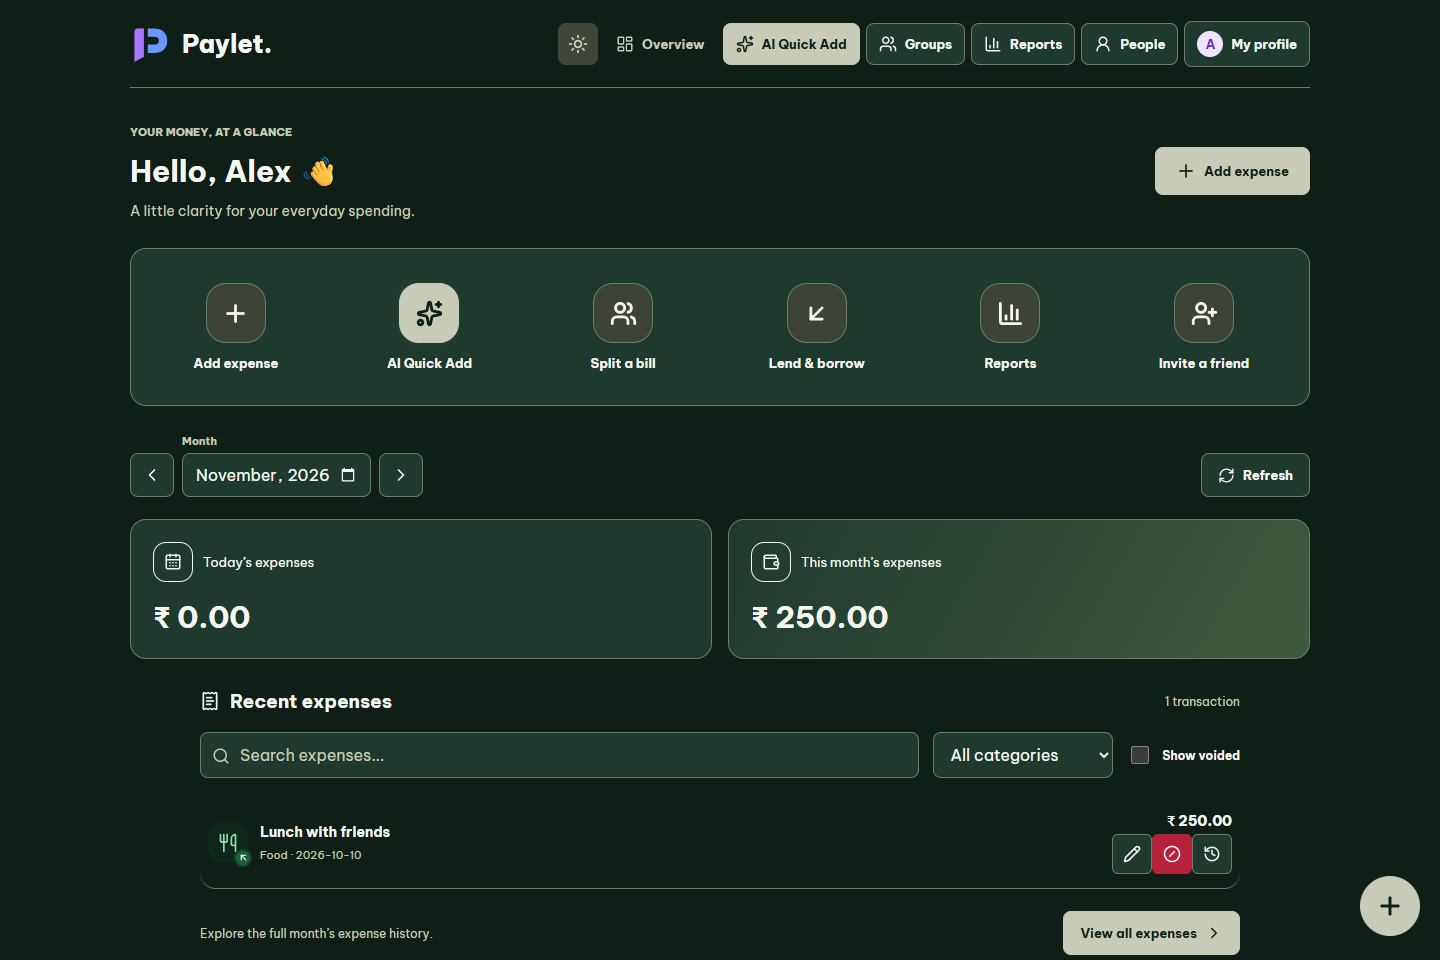
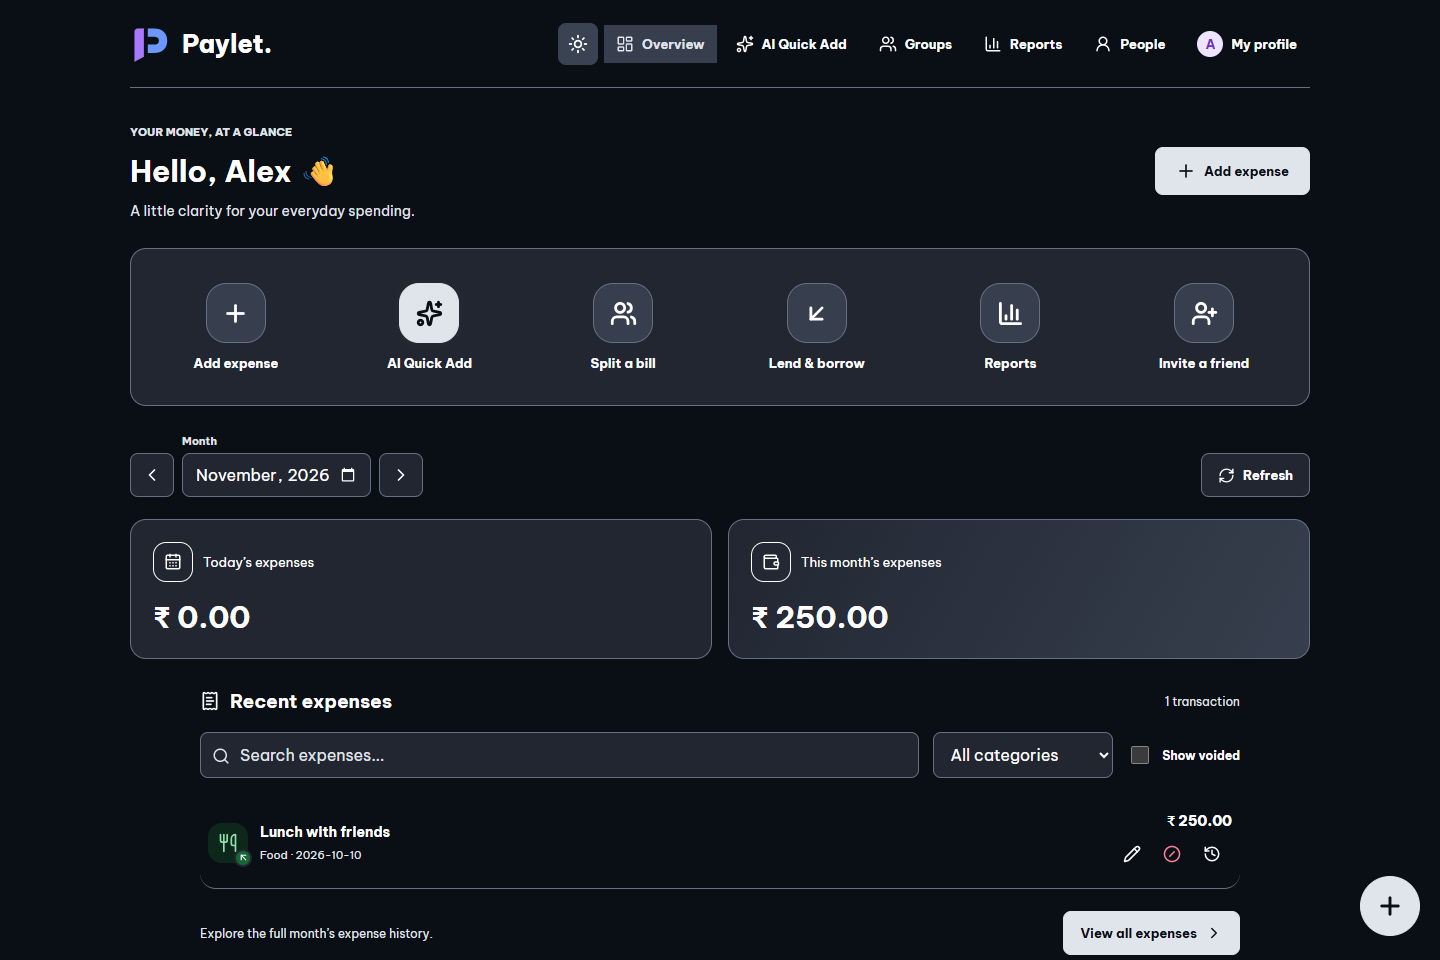
Apply charcoal and lavender themes and simplify dashboard controls

diff --git a/frontend/tests/ui.spec.ts b/frontend/tests/ui.spec.ts
@@ -242,8 +242,8 @@ test("daily and monthly amount cards separate currencies, exclude voids and use 
   for(const theme of ['light','dark']) {
     if(await page.locator('html').getAttribute('data-theme')!==theme) await page.getByRole('button',{name:`Switch to ${theme} mode`}).click();
     for(const card of [today,monthly]) {
-      await expect(card.locator('.expense-total').first()).toHaveCSS('color',card===today && theme==='light'?'rgb(15, 31, 23)':'rgb(245, 246, 240)');
-      expect(await card.evaluate(el=>getComputedStyle(el).backgroundImage)).toBe(card === today ? 'none' : 'linear-gradient(120deg, rgb(30, 58, 46), rgb(62, 90, 63))');
+      await expect(card.locator('.expense-total').first()).toHaveCSS('color',card===today && theme==='light'?'rgb(33, 32, 58)':'rgb(255, 255, 255)');
+      expect(await card.evaluate(el=>getComputedStyle(el).backgroundImage)).toBe(card === today ? 'none' : theme === 'dark' ? 'linear-gradient(120deg, rgb(33, 38, 49), rgb(55, 63, 78))' : 'linear-gradient(120deg, rgb(91, 33, 182), rgb(109, 40, 217))');
     }
     await page.setViewportSize({width:320,height:800});
     expect(await page.evaluate(()=>document.documentElement.scrollWidth<=innerWidth)).toBe(true);
@@ -670,7 +670,7 @@ test("theme preference persists and compact expense rows retain their actions", 
   await page.screenshot({ path: "test-results/dashboard-dark.png", fullPage: true });
   await page.getByRole("button", { name: "Add expense", exact: true }).first().click();
   await expect(page.getByRole("dialog")).toBeVisible();
-  expect(await page.getByRole("dialog").evaluate((element) => getComputedStyle(element).backgroundColor)).toBe("rgb(30, 58, 46)");
+  expect(await page.getByRole("dialog").evaluate((element) => getComputedStyle(element).backgroundColor)).toBe("rgb(33, 38, 49)");
   await page.keyboard.press("Escape");
   await page.getByRole("button", { name: "Switch to light mode" }).click();
   await page.screenshot({ path: "test-results/dashboard-purple-light.png", fullPage: true });
@@ -1064,19 +1064,19 @@ test("capture current Paylet dashboard for landing product preview", async ({ pa
   await page.getByRole("button", { name: "Switch to dark mode" }).click();
   await page.screenshot({ path: "test-results/paylet-preview-dark.png" });
 });
-test("Forest Ledger dashboard and other screens retain distinct themes", async ({ page }) => {
+test("charcoal and lavender dashboard and other screens retain distinct themes", async ({ page }) => {
   await mockApi(page);
   await page.goto("/?view=dashboard");
   if (await page.locator("html").getAttribute("data-theme") !== "dark") await page.getByRole("button", { name: "Switch to dark mode" }).click();
-  expect(await page.locator("body").evaluate((element) => getComputedStyle(element).backgroundColor)).toBe("rgb(15, 31, 23)");
-  await expect(page.locator(".today-expense-card")).toHaveCSS("background-color", "rgb(30, 58, 46)");
+  expect(await page.locator("body").evaluate((element) => getComputedStyle(element).backgroundColor)).toBe("rgb(10, 14, 21)");
+  await expect(page.locator(".today-expense-card")).toHaveCSS("background-color", "rgb(33, 38, 49)");
   await page.getByRole("button", { name: "AI Quick Add", exact: true }).first().click();
   expect(await page.locator(".pqa").evaluate((element) => getComputedStyle(element).backgroundColor)).toBe("rgb(0, 0, 0)");
   await page.goto("/");
-  expect(await page.locator(".landing-page").evaluate((element) => getComputedStyle(element).backgroundColor)).toBe("rgb(15, 31, 23)");
+  expect(await page.locator(".landing-page").evaluate((element) => getComputedStyle(element).backgroundColor)).toBe("rgb(10, 14, 21)");
   await page.screenshot({ path: "test-results/landing-deep-black.png" });
   await page.getByRole("button", { name: "Switch to light mode" }).click();
-  expect(await page.locator("body").evaluate((element) => getComputedStyle(element).backgroundColor)).toBe("rgb(245, 246, 240)");
+  expect(await page.locator("body").evaluate((element) => getComputedStyle(element).backgroundColor)).toBe("rgb(250, 249, 255)");
 });
 test("clean hero keeps the verified community count and respects reduced motion", async ({ page }) => {
   await mockApi(page, false);
@@ -1102,12 +1102,12 @@ test("hero and dashboard preview switch together with the selected theme", async
   if (await page.locator("html").getAttribute("data-theme") === "dark") await page.getByRole("button", { name: "Switch to light mode" }).click();
   const hero = page.locator(".landing-interactive-hero");
   const image = page.locator(".landing-product");
-  expect(await hero.evaluate((element) => getComputedStyle(element).backgroundColor)).toBe("rgb(245, 246, 240)");
+  expect(await hero.evaluate((element) => getComputedStyle(element).backgroundColor)).toBe("rgb(250, 249, 255)");
   await expect(page.locator(".hero-split")).toHaveCount(0);
   await expect(image).toHaveAttribute("src", "/paylet-preview.png");
   await page.screenshot({ path: "test-results/hero-theme-light.png" });
   await page.getByRole("button", { name: "Switch to dark mode" }).click();
-  expect(await hero.evaluate((element) => getComputedStyle(element).backgroundColor)).toBe("rgb(15, 31, 23)");
+  expect(await hero.evaluate((element) => getComputedStyle(element).backgroundColor)).toBe("rgb(10, 14, 21)");
   await expect(image).toHaveAttribute("src", "/paylet-preview-dark.png");
   await image.scrollIntoViewIfNeeded();
   await expect.poll(() => image.evaluate((element) => (element as HTMLImageElement).naturalWidth)).toBe(1440);
@@ -1195,7 +1195,7 @@ test("People shows latest ten profile cards, preserves older search and readable
   }
 });
 
-test("Dashboard shortcuts and AI Quick Add follow Forest Ledger in both themes", async ({ page }) => {
+test("Dashboard shortcuts and AI Quick Add follow charcoal and lavender in both themes", async ({ page }) => {
   await mockApi(page);
   await page.goto("/?view=dashboard");
   for (const theme of ["light", "dark"]) {
@@ -1203,12 +1203,12 @@ test("Dashboard shortcuts and AI Quick Add follow Forest Ledger in both themes",
     const icons = page.locator(".quick-actions > button:not(.dashboard-ai-shortcut) .action-symbol");
     await expect(icons).toHaveCount(5);
     for (const icon of await icons.all()) {
-      expect(await icon.evaluate((element) => getComputedStyle(element).color)).toBe(theme === "dark" ? "rgb(245, 246, 240)" : "rgb(15, 31, 23)");
+      expect(await icon.evaluate((element) => getComputedStyle(element).color)).toBe(theme === "dark" ? "rgb(255, 255, 255)" : "rgb(33, 32, 58)");
       expect(await icon.locator("svg").evaluate((element) => getComputedStyle(element).strokeWidth)).toBe("2.5px");
     }
-    for (const control of [page.locator('.dashboard-ai-shortcut .action-symbol'), page.locator('.dashboard-ai-nav')]) {
-      await expect(control).toHaveCSS('color',theme==='dark'?'rgb(15, 31, 23)':'rgb(255, 255, 255)');
-      await expect(control).toHaveCSS('background-color', theme==='dark'?'rgb(199, 203, 184)':'rgb(30, 58, 46)');
+    for (const control of [page.locator('.dashboard-ai-shortcut .action-symbol')]) {
+      await expect(control).toHaveCSS('color',theme==='dark'?'rgb(10, 14, 21)':'rgb(255, 255, 255)');
+      await expect(control).toHaveCSS('background-color', theme==='dark'?'rgb(224, 228, 235)':'rgb(91, 33, 182)');
     }
     await page.setViewportSize({ width: 1440, height: 960 });
     await page.screenshot({ path: `test-results/dashboard-ivory-${theme}.png` });

diff --git a/frontend/src/components/dashboard-refresh.css b/frontend/src/components/dashboard-refresh.css
@@ -97,48 +97,52 @@ body:has(dialog[open]) .dashboard-fab { display: none; }
   .home-page .dashboard-add-expense::after, .dashboard-fab::after { display: none; animation: none; }
 }
 body:has(:is(.home-page, .landing-page)) {
-  background: #f5f6f0;
+  background: #faf9ff;
 }
 
 [data-theme="dark"] body:has(:is(.home-page, .landing-page)) {
-  background: #0f1f17;
+  background: #0a0e15;
 }
 
 :is(.home-page, .landing-page) {
-  --page-bg: #f5f6f0;
-  --surface: #fff;
-  --surface-alt: #e8ede3;
-  --text: #0f1f17;
-  --muted: #485b49;
-  --border: #c7cbb8;
-  --purple: #1e3a2e;
-  --blue-soft: #e8ede3;
-  --blue-text: #1e3a2e;
-  --forest-action: #1e3a2e;
-  --forest-action-text: #fff;
-  --forest-feature: linear-gradient(120deg, #1e3a2e, #3e5a3f);
+  --page-bg: #faf9ff;
+  --surface: #ede9fe;
+  --surface-alt: #e4dcfd;
+  --text: #21203a;
+  --muted: #534768;
+  --border: #c7b3ff;
+  --purple: #5b21b6;
+  --blue-soft: #ede9fe;
+  --blue-text: #5b21b6;
+  --theme-action: #5b21b6;
+  --theme-action-text: #fff;
+  --theme-feature: linear-gradient(120deg, #5b21b6, #6d28d9);
+  --theme-feature-text: #fff;
+  --theme-void-icon: #a71836;
   color: var(--text);
 }
 
 [data-theme="dark"] :is(.home-page, .landing-page) {
-  --page-bg: #0f1f17;
-  --surface: #1e3a2e;
-  --surface-alt: #3d4337;
-  --text: #f5f6f0;
-  --muted: #c7cbb8;
-  --border: #6b7f67;
-  --purple: #c7cbb8;
-  --blue-soft: #3d4337;
-  --blue-text: #f5f6f0;
-  --forest-action: #c7cbb8;
-  --forest-action-text: #0f1f17;
-  --forest-feature: linear-gradient(120deg, #1e3a2e, #3e5a3f);
+  --page-bg: #0a0e15;
+  --surface: #212631;
+  --surface-alt: #373f4e;
+  --text: #fff;
+  --muted: #e0e4eb;
+  --border: #667085;
+  --purple: #e0e4eb;
+  --blue-soft: #373f4e;
+  --blue-text: #e0e4eb;
+  --theme-action: #e0e4eb;
+  --theme-action-text: #0a0e15;
+  --theme-feature: linear-gradient(120deg, #212631, #373f4e);
+  --theme-feature-text: #fff;
+  --theme-void-icon: #ff8197;
 }
 
 :root .home-page :is(.button-primary, .button-green, .button-purple, .dashboard-fab) {
-  background: var(--forest-action);
-  color: var(--forest-action-text);
-  border-color: var(--forest-action);
+  background: var(--theme-action);
+  color: var(--theme-action-text);
+  border-color: var(--theme-action);
   box-shadow: none;
 }
 
@@ -170,12 +174,12 @@ body:has(:is(.home-page, .landing-page)) {
 }
 
 :root .home-page .summary-grid .month-expense-card {
-  background: var(--forest-feature);
-  border-color: #6b7f67;
+  background: var(--theme-feature);
+  border-color: var(--border);
 }
 
 :root .home-page .summary-grid .month-expense-card :is(p, strong) {
-  color: #f5f6f0;
+  color: var(--theme-feature-text);
 }
 
 :root .home-page :is(.quick-actions, .summary-card, .loan-summary-card, .expense-row) {
@@ -183,9 +187,9 @@ body:has(:is(.home-page, .landing-page)) {
   box-shadow: none;
 }
 :root .home-page .header-actions .dashboard-ai-nav {
-  background: var(--forest-action);
-  color: var(--forest-action-text);
-  border-color: var(--forest-action);
+  background: var(--theme-action);
+  color: var(--theme-action-text);
+  border-color: var(--theme-action);
   box-shadow: none;
 }
 
@@ -197,9 +201,9 @@ body:has(:is(.home-page, .landing-page)) {
 }
 
 :root .home-page .quick-actions .dashboard-ai-shortcut .action-symbol.purple {
-  background: var(--forest-action);
-  color: var(--forest-action-text);
-  border-color: var(--forest-action);
+  background: var(--theme-action);
+  color: var(--theme-action-text);
+  border-color: var(--theme-action);
 }
 
 :root .home-page .quick-actions .dashboard-ai-shortcut > span:last-child {
@@ -213,4 +217,26 @@ body:has(:is(.home-page, .landing-page)) {
 .home-page input::placeholder {
   color: var(--muted);
   opacity: 1;
+}
+
+:root[data-theme] .home-page .header-actions > .button,
+:root[data-theme] .home-page .expense-row-actions > .button {
+  background: transparent;
+  border-color: transparent;
+  box-shadow: none;
+  color: var(--text);
+}
+
+:root[data-theme] .home-page .expense-row-actions > .button-danger {
+  color: var(--theme-void-icon);
+}
+
+:root[data-theme] .home-page :is(.header-actions, .expense-row-actions) > .button:hover:not(:disabled),
+.home-page .nav-current {
+  background: var(--surface-alt);
+}
+
+.home-page :is(.header-actions, .expense-row-actions) > .button:focus-visible {
+  outline: 2px solid var(--purple);
+  outline-offset: 2px;
 }

diff --git a/frontend/src/components/landing-redesign.css b/frontend/src/components/landing-redesign.css
@@ -272,9 +272,9 @@
 }
 
 :root[data-theme] .landing-page :is(.button-primary, .button-purple, .button-green) {
-  background: var(--forest-action);
-  border-color: var(--forest-action);
-  color: var(--forest-action-text);
+  background: var(--theme-action);
+  border-color: var(--theme-action);
+  color: var(--theme-action-text);
   box-shadow: none;
 }
 
